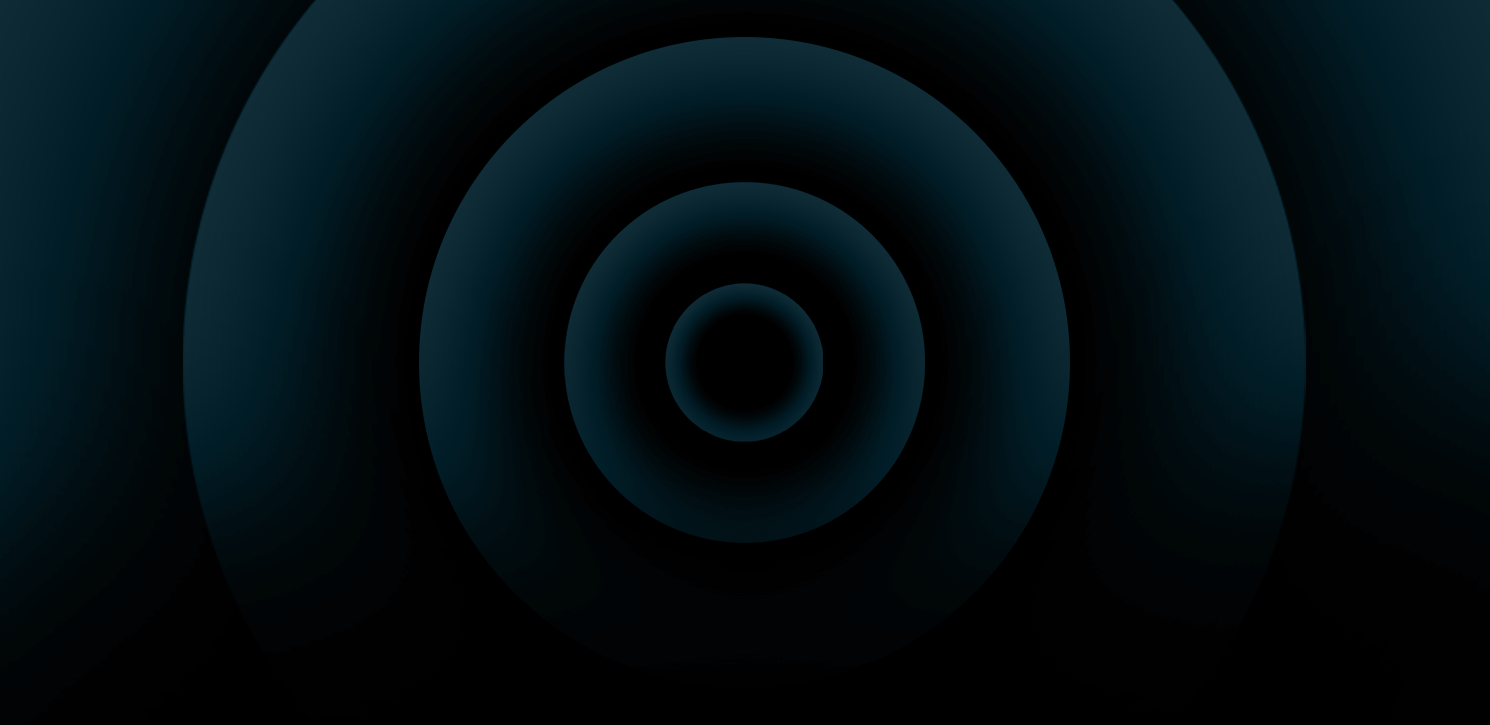
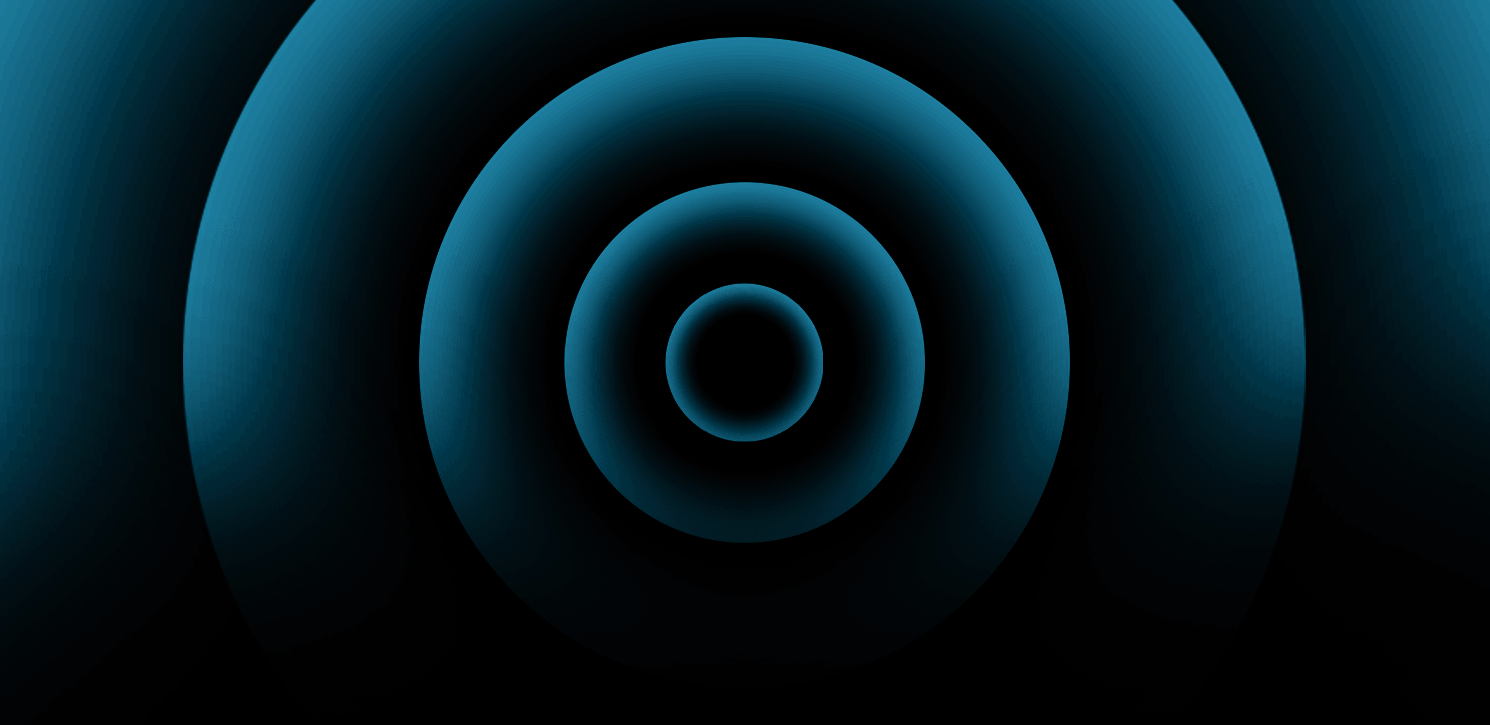
Add some designs

diff --git a/assets/style/style.css b/assets/style/style.css
@@ -1,5 +1,3 @@
-@import url('https://fonts.googleapis.com/css2?family=Jersey+10&family=Russo+One&display=swap');
-@import url('https://fonts.googleapis.com/css2?family=Jersey+10&family=Russo+One&family=Urbanist:ital,wght@0,100..900;1,100..900&display=swap');
 *{
     scroll-behavior: smooth;
 
@@ -11,8 +9,9 @@ html{
 
 #home{
 height: 700px;
-background: url("../img/bg.png") no-repeat;
-background-size: cover;
+background: url("../img/bg-1-1.jpg")no-repeat;
+background-position: center center;
+background-size:cover;
 
 
 }
@@ -51,7 +50,6 @@ background-size: cover;
 }
 .header h1{
     font-size: 120px;
-    font-family: "Russo One", sans-serif;
     font-style: normal;
     font-weight: 700;
 }
@@ -69,7 +67,6 @@ background-size: cover;
     background: none;
     border: solid white 2px;
     border-radius: 25px;
-    font-family: "Urbanist", sans-serif;
   font-optical-sizing: auto;
   font-style: normal;
 }
@@ -77,25 +74,29 @@ background-size: cover;
     text-decoration: none;
     color: #ffffff;
 }
+.button-1{
+    background-color: #ffffff;
+    color: #000;
+}
 .button-main:hover{
     background-color: rgb(252, 252, 252);
     color: #09051e;
 }
 #about , #contact  {
-    background: #000000;
+    background: #050d1b;
     background-size: cover;
     padding: 80px;
-    padding-top: 100px;
+    padding-top: 50px;
     
 }
 
 #competitions{
-    background:#000000;
+    background:#050d1b;
     padding: 80px;
     padding-top: 100px;
 }
 #Competition-sub{
-    background: #000000;
+    background: #050d1b;
     padding: 80px;
     padding-top: 100px;
 }
@@ -106,7 +107,6 @@ background-size: cover;
 .about-header{
     font-size: 90px;
     color: #ffffff;
-    font-family: "Russo One", sans-serif;
     font-style: normal;
     font-weight: 700;
 }
@@ -115,21 +115,18 @@ background-size: cover;
     color: #d6d6d6;
     padding: 100px;
     padding-top: 0px;
-    font-family: "Urbanist", sans-serif;
     font-optical-sizing: auto;
     font-style: normal;
 }
 .contact-heading{
     color: #ffffff;
     font-size: 90px;
-    font-family: "Russo One", sans-serif;
     font-style: normal;
     font-weight: 700;
 }
 .contact-text{
     font-size: 30px;
     color: #d8d8d8;
-    font-family: "Urbanist", sans-serif;
     font-optical-sizing: auto;
     font-style: normal;
 }
@@ -139,7 +136,6 @@ background-size: cover;
 .contact-card{
     margin: 20px;
     font-size: 20px;
-    font-family: "Urbanist", sans-serif;
     font-optical-sizing: auto;
     font-style: normal;
 }
@@ -163,13 +159,12 @@ background-size: cover;
 .icon:hover{
     background-color: white;
     border: none;
-    color: #000000;
+    color: #050d1b;
 }
 .footer{
-    background-color:  #000000;
+    background-color:  #050d1b;
     color: #ffffff;
     padding: 50px;
-    font-family: "Urbanist", sans-serif;
     font-optical-sizing: auto;
     font-style: normal;
 }
@@ -198,7 +193,6 @@ background-size: cover;
 .competition-title{
     color: #ffffff;
     font-size: 90px;
-    font-family: "Russo One", sans-serif;
     font-style: normal;
     font-weight: 700;
 }
@@ -217,12 +211,10 @@ background-size: cover;
 
 }
 .card-titile h3{
-    font-family: "Russo One", sans-serif;
     font-style: normal;
     font-weight: 700;
 }
 .card-description{
-    font-family: "Urbanist", sans-serif;
     font-optical-sizing: auto;
     font-style: normal;
 }
@@ -258,13 +250,11 @@ scale: 1.0;
 .competition-name{
     color: #ffffff;
     font-size: 60px;
-    font-family: "Russo One", sans-serif;
     font-style: normal;
     font-weight: 700;
 }
 .titles{
     color: #d8d8d8;
-    font-family: "Urbanist", sans-serif;
     font-optical-sizing: auto;
     font-style: normal;
 }
@@ -272,7 +262,6 @@ scale: 1.0;
     color: #ffffff;
     margin-top: 20px;
     margin-bottom: 50px;
-    font-family: "Urbanist", sans-serif;
     font-optical-sizing: auto;
     font-style: normal;
 }

diff --git a/index.html b/index.html
@@ -62,11 +62,10 @@
           </button>
         </a>
         
-      </center>
-     
+      </center><br><br>
+     <hr style="color: white;">
 </section>
 <!--About section ends here-->
-
 <!--Contact section starts here-->
 <section id="contact">
   <center>
